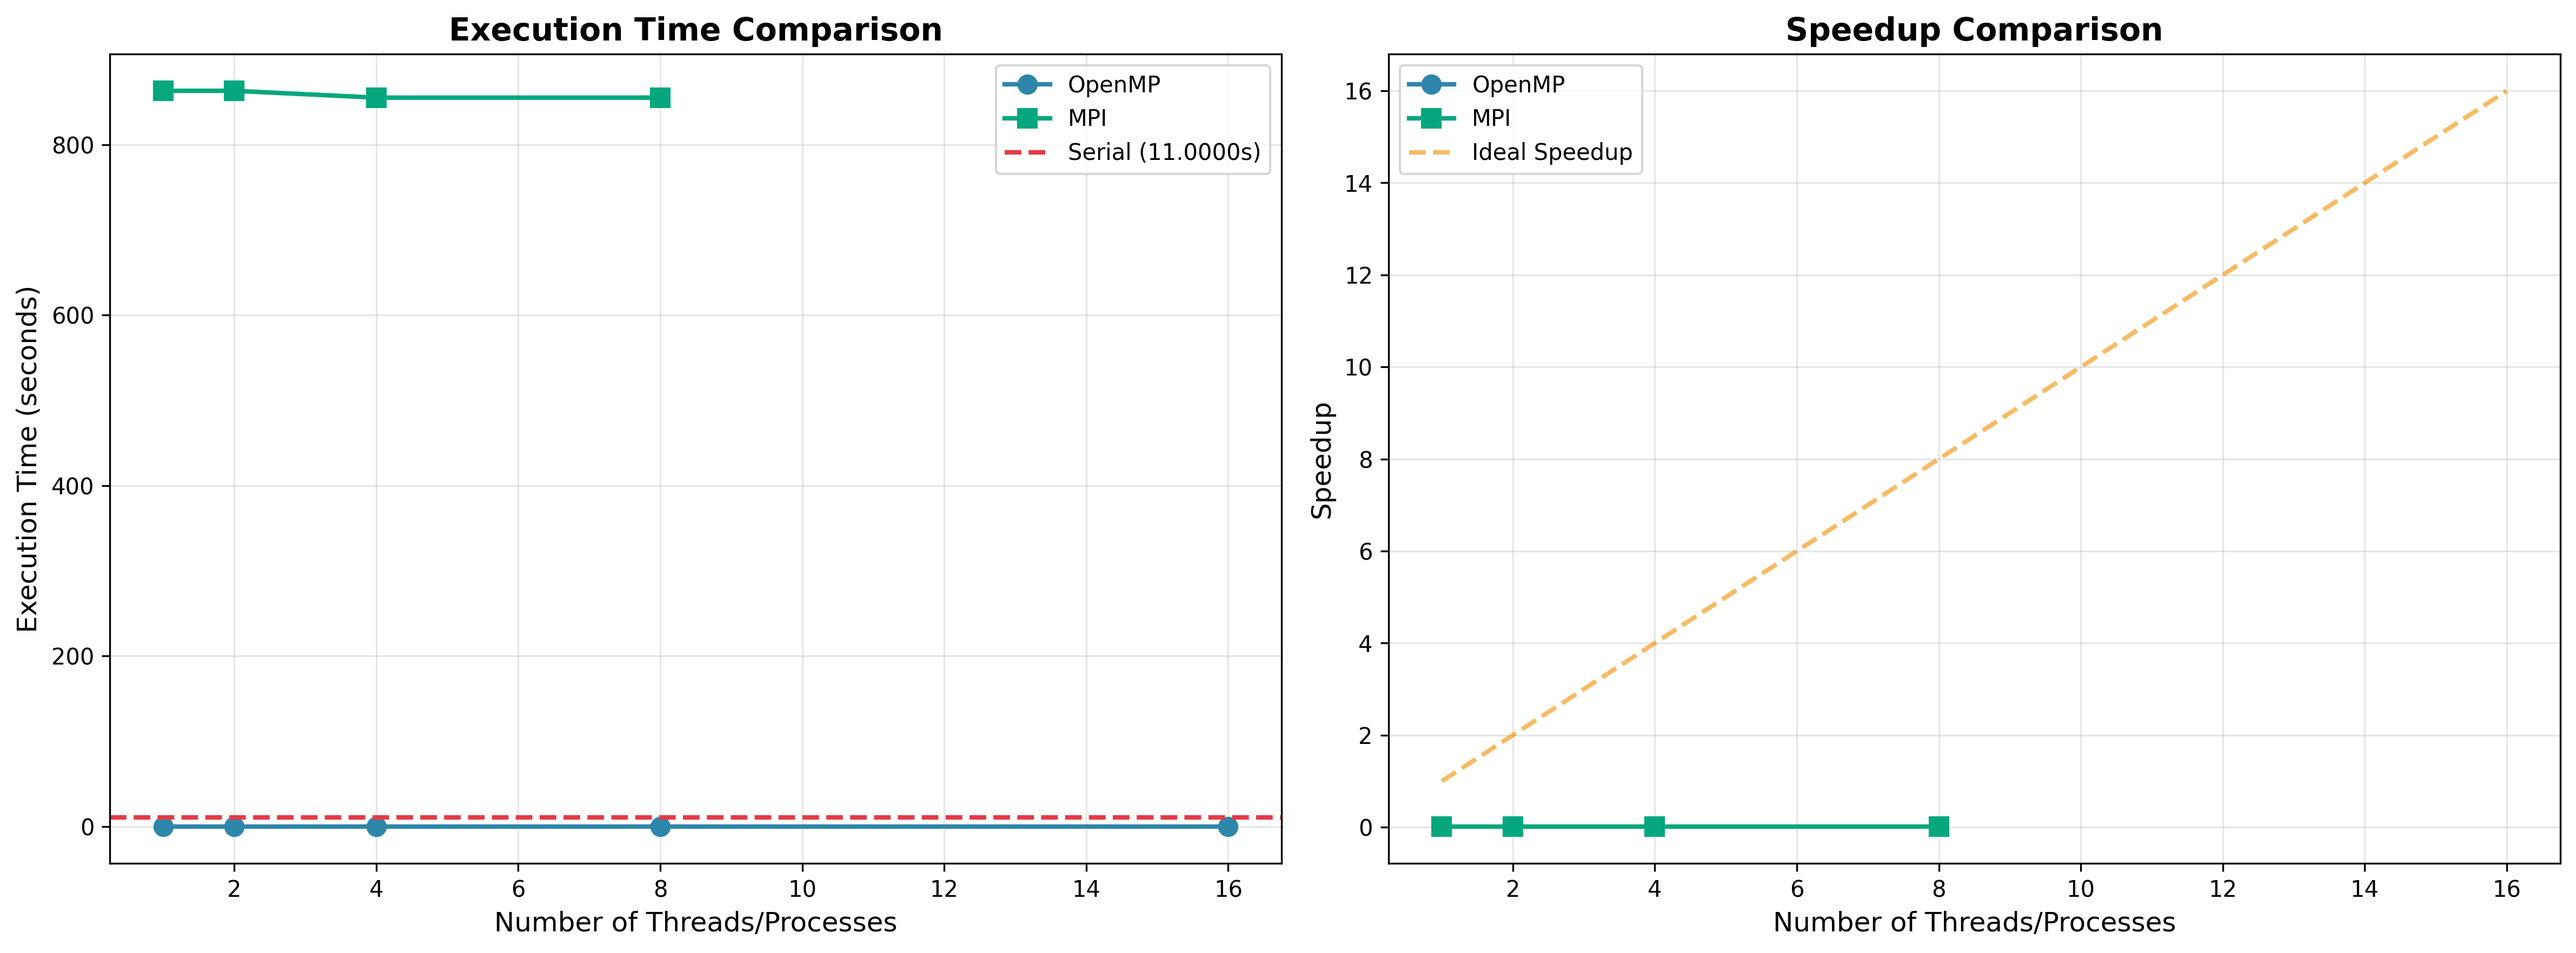
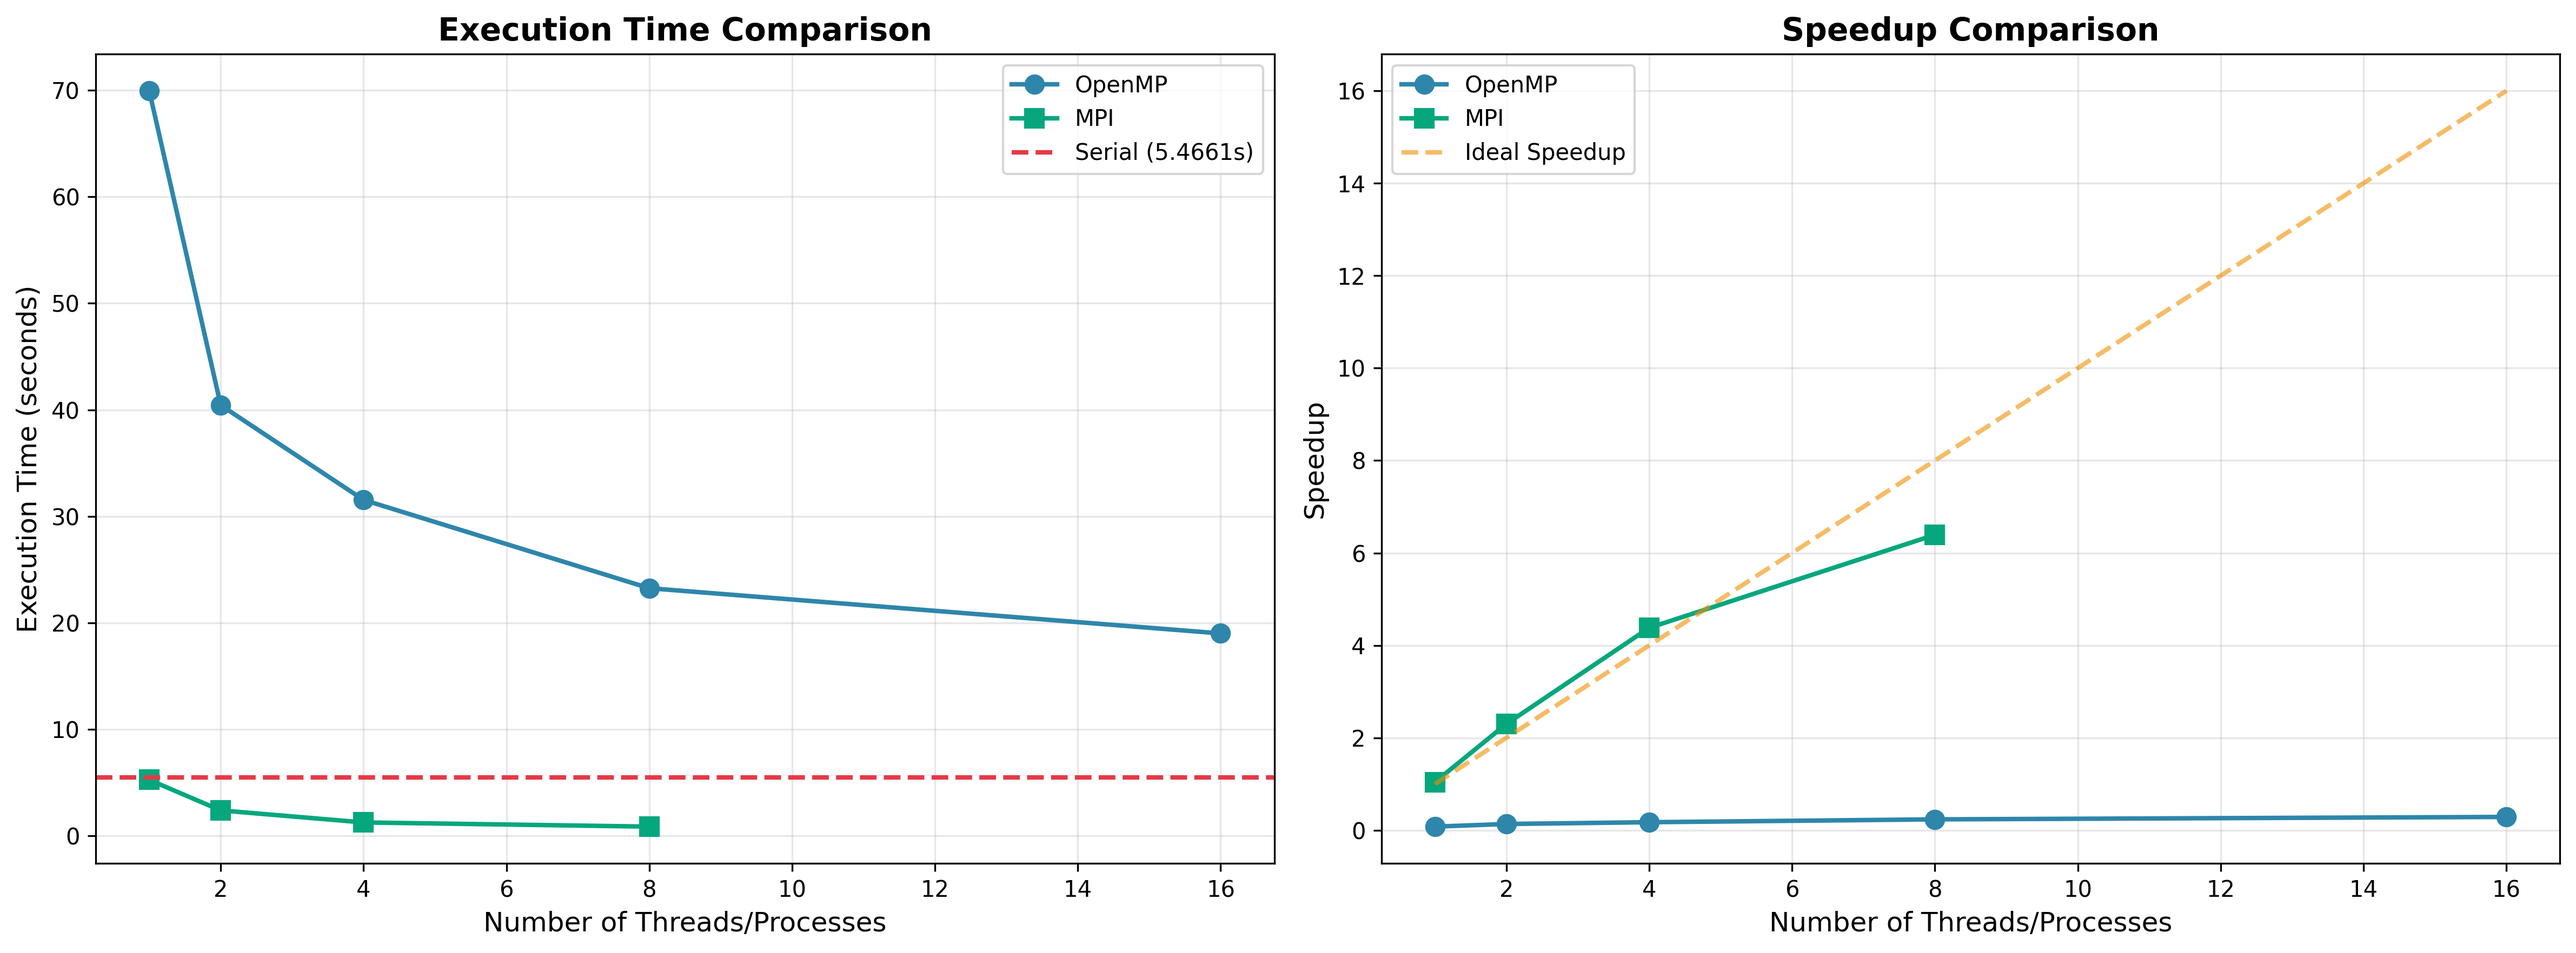
Fixed :: Python script time error in MPI and Commented likely code that may give erros
in Serial sort the printing of elements did add to the time sorting measurement was wrong i removed that part

diff --git a/MPI parallel bitonic sort/MPI_bitonic_Sort.c b/MPI parallel bitonic sort/MPI_bitonic_Sort.c
@@ -58,9 +58,9 @@ int main( int argc , char** argv){
     MPI_Comm_rank(MPI_COMM_WORLD , &rank);
     MPI_Comm_size(MPI_COMM_WORLD , &numproc);
 
-    // int n =8388608;
+    int n =8388608;
     // int n =16;
-       int n = 8192;
+    //    int n = 8192;
 
     int chank = n /numproc;
 
@@ -113,7 +113,10 @@ int main( int argc , char** argv){
     //Left Shift (<< 1) → Multiply by 2
 
     //scahter func 
-    MPI_Scatter(arr,
+    
+   double start_time = MPI_Wtime();
+   
+   MPI_Scatter(arr,
                 chank,
                 MPI_INT,
                 local_buffer,
@@ -121,8 +124,6 @@ int main( int argc , char** argv){
                 MPI_INT,
                 0,
                 MPI_COMM_WORLD);
-    
-   double start_time = MPI_Wtime();
    
    bitonic_sort( local_buffer , 0 ,chank , 1);
 
@@ -197,6 +198,8 @@ int main( int argc , char** argv){
               MPI_COMM_WORLD
             );
 
+   double end_time = MPI_Wtime();
+   double elapsed_time = end_time - start_time;
 
    if(rank == 0 ){
    bitonic_sort(arr , 0 , n , 1);
@@ -204,9 +207,6 @@ int main( int argc , char** argv){
     //     for(int i=0 ; i<7024 ;i++)
     //         printf("%d " ,arr[i]);
     // printf("\n");
-   
-   double end_time = MPI_Wtime();
-   double elapsed_time = end_time - start_time;
    
    printf("%.6f\n", elapsed_time);
    

diff --git a/Serial bitonic sort/Serial_Botonic_Sort.c b/Serial bitonic sort/Serial_Botonic_Sort.c
@@ -62,24 +62,24 @@ int main(){
     srand(time(NULL));
     make_arry( arr , n);
 
-    printf("Before sorting (first 20 elements):\n");
-    for (int i =0 ; i <400 ;i++){
-        printf("%d " ,arr[i]);
-    }
-    printf("\n\n");
+    //printf("Before sorting (first 20 elements):\n");
+    //for (int i =0 ; i <400 ;i++){
+    //    printf("%d " ,arr[i]);
+    //}
+    //printf("\n\n");
 
     clock_t start =clock();
     bitonic_sort(arr ,0 ,n,1);
     clock_t end =clock();
 
     double time_taken = ((double)end-(double)start )/CLOCKS_PER_SEC;
-    printf("time it took to mkae the caclulations : %.6f sec\n",time_taken);
+    printf("%.6f\n",time_taken);
     
-     printf("After sorting (first 20 elements):\n");
-    for (int i =0 ; i <100000 ;i++){
-        printf("%d " ,arr[i]);
-    }
-    printf("\n");
+     //printf("After sorting (first 20 elements):\n");
+    //for (int i =0 ; i <100000 ;i++){
+    //    printf("%d " ,arr[i]);
+    //}
+    //printf("\n");
 
     free(arr);
     return 0;

diff --git a/OpenMP_Bitonic Sort/openMp_bitonic_sort.c b/OpenMP_Bitonic Sort/openMp_bitonic_sort.c
@@ -59,7 +59,7 @@ void bitonic_sort(int a[] , int low , int count ,int dir ){
 //#pragma omp taskwait — “Wait until both tasks finish”
 
 
-int main (){
+int main (int argc , char** argv){
 
  int n = 8388608;
  int *arr = (int* )malloc(n*sizeof(int));
